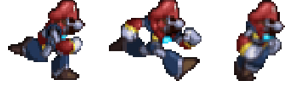
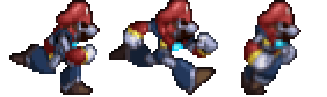
JALA DINO12
GRUPO 2 DA TURMA 9
(MODULO 02)

diff --git a/dino_runner/components/game.py b/dino_runner/components/game.py
@@ -29,7 +29,6 @@ class Game:
         self.player = Dinosaur()
         self.obstacle_manager = ObstacleManager()
         self.power_up_manager = PowerUpManager()
-        self.score = 0
 
         self.music(START_MUSIC, volume= 0.9)
 
@@ -66,8 +65,6 @@ class Game:
         self.obstacle_manager.update(self)
         self.update_score()
         self.power_up_manager.update(self.score, self.game_speed, self.player, self)
-
-        
 
     def update_score(self):
         self.score += 1
@@ -118,26 +115,25 @@ class Game:
             draw_message_component(
                 f"Score: {self.score}",
                 self.screen,
-                font_color=(0,100,139),
-                pos_x_center=1000,
-                pos_y_center=50
-
-            )   
-            draw_message_component(
-                f"Best Score: {self.best_score}",
-                self.screen,
-                font_color=(0,100,139),
+                font_color=(0,0,0),
                 pos_x_center=1000,
                 pos_y_center=80
-)
-            
+            )
+
+            draw_message_component(
+                f"Maior pontuação: {self.best_score}",
+                self.screen,
+                pos_y_center= 60,
+                pos_x_center=925,
+                font_color= (0, 0, 0)
+            )
           
     def draw_power_up_time(self):
         if self.player.has_power_up: 
             time_to_show = round((self.player.power_up_time - pygame.time.get_ticks()) / 1000, 2)
             if time_to_show >= 0:
                 draw_message_component(
-                    f"{self.player.type.capitalize()} enabled for {time_to_show} seconds",
+                    f"{self.player.type.capitalize()} enabled for {time_to_show} segundos",
                     self.screen,
                     font_size = 18,
                     pos_x_center = 500,
@@ -204,19 +200,21 @@ class Game:
             draw_message_component(
                 f"Sua pontuação: {self.score}",
                 self.screen,
-                pos_y_center= half_screen_heigth - 70
+                pos_y_center= half_screen_heigth - 60,
+                font_color= (255,255,255)
             )
 
             draw_message_component(
                 f"Maior pontuação: {self.best_score}",
                 self.screen,
-                pos_y_center= half_screen_heigth - 100
+                pos_y_center= half_screen_heigth - 90,
+                font_color= (255,255,255)
             )
 
             draw_message_component(
                 f"Mortes: {self.death_count}",
                 self.screen,
-                font_color=(0,0,0),
+                font_color=(255,255,255),
                 pos_x_center=550,
                 pos_y_center=270
                         )   

diff --git a/dino_runner/utils/constants.py b/dino_runner/utils/constants.py
@@ -41,12 +41,12 @@ FLY_JUMP = pygame.transform.scale(pygame.image.load(os.path.join(IMG_DIR, "Mario
 DUCK = pygame.image.load(os.path.join(IMG_DIR, "Mario/maro_duck.png"))
 MARIO_FLY = pygame.image.load(os.path.join(IMG_DIR, "Mario/mario_fly.png"))
 MARIO_RUN = pygame.image.load(os.path.join(IMG_DIR, "Mario/mario_run.png"))
-MARIO_RUN_SHIELD = pygame.image.load(os.path.join(IMG_DIR, "power_ups/mecha.png"))
+MARIO_RUN_SHIELD = pygame.image.load(os.path.join(IMG_DIR, "power_ups/mecha_consertado.png"))
 JUMPING = pygame.image.load(os.path.join(IMG_DIR, "Mario/MarioSprit.png")).subsurface((0, 194),(100, 97))
 JUMPING_SHIELD = pygame.transform.scale2x(pygame.image.load(os.path.join(IMG_DIR, "power_ups/mecajump.png")))
 JUMPING_HAMMER = pygame.image.load(os.path.join(IMG_DIR, "Mario/MarioSprit.png")).subsurface((300, 388),(100, 97))
 DUCKING_SHIELD =[ pygame.transform.scale(pygame.image.load(os.path.join(IMG_DIR, "Mario/marioKart.png")), (96 * 0.7, 100 * 0.7))]
-MARIO_HAMMER  = pygame.image.load(os.path.join(IMG_DIR, "Mario/mario_hammer.png"))
+MARIO_HAMMER  = pygame.image.load(os.path.join(IMG_DIR, "power_ups/mario_hammer_consertado2.png"))
 TARTARUGAM =  pygame.image.load(os.path.join(IMG_DIR, "obstaculo/tartarugaM.png"))
 TOPEDOS =  pygame.image.load(os.path.join(IMG_DIR, "obstaculo/torpedoS.png"))
 DRAGAO1 =  pygame.image.load(os.path.join(IMG_DIR, "obstaculo/dragao.png"))
@@ -103,8 +103,8 @@ SOUNDS ={
 
 DEFAULT_TYPE = "default"
 SHIELD_TYPE = "shield"
-HAMMER_TYPE = "hammer"
-RELOGIO_TYPE = "time"
+HAMMER_TYPE = "martelo"
+RELOGIO_TYPE = "relógio"
 PENA_TYPE = "Pena"
 HEART_TYPE = "heart"
 

diff --git a/dino_runner/components/powerups/power_up.py b/dino_runner/components/powerups/power_up.py
@@ -10,7 +10,7 @@ class PowerUp(Sprite):
         self.image = image
         self.type = type
         self.rect = self.image.get_rect()
-        self.rect.x = SCREEN_WIDTH +  random.randint (800, 1000)
+        self.rect.x = SCREEN_WIDTH +  random.randint (1000, 1100)
         self.rect.y = random.randint (200, 270)
 
         self.start_time = 0
